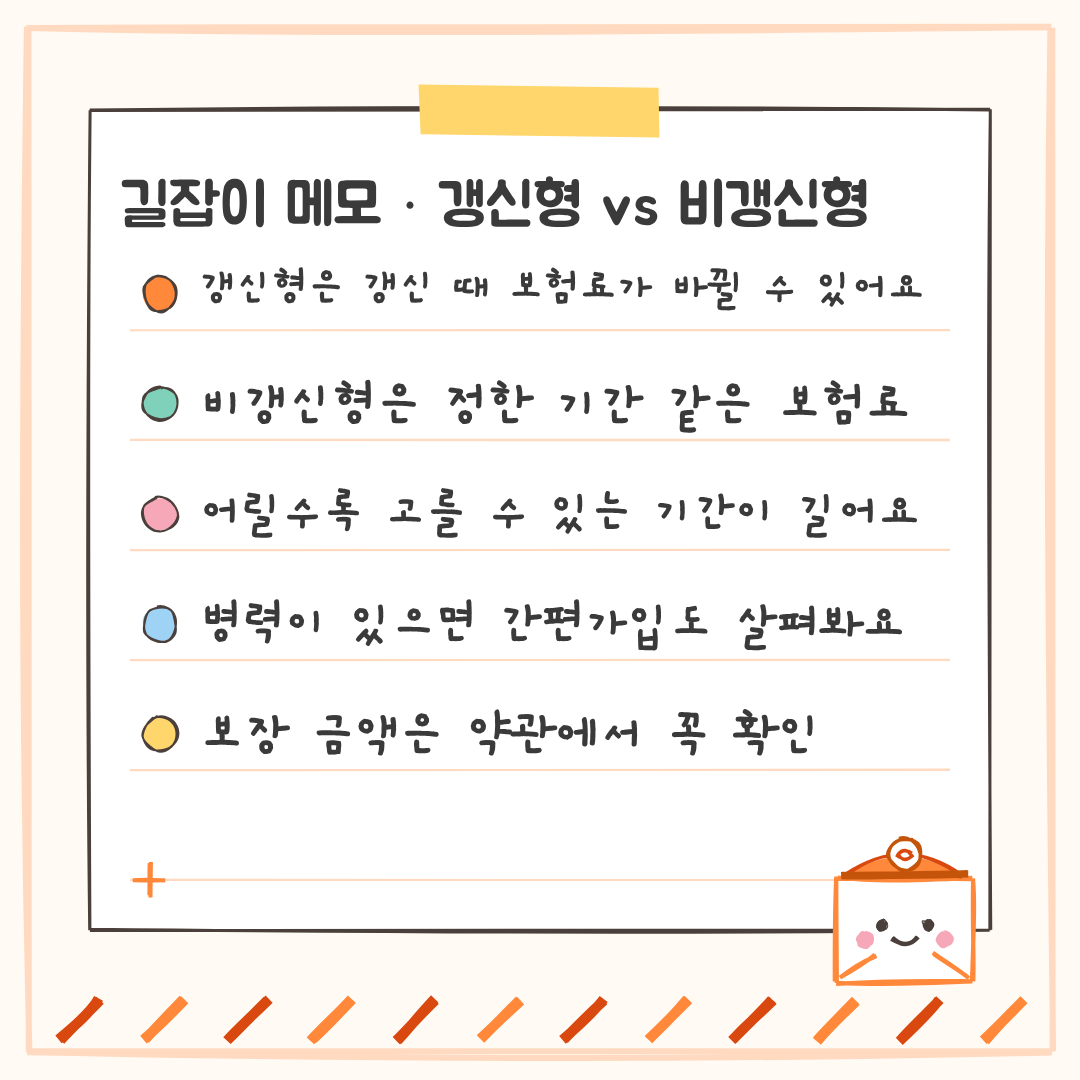
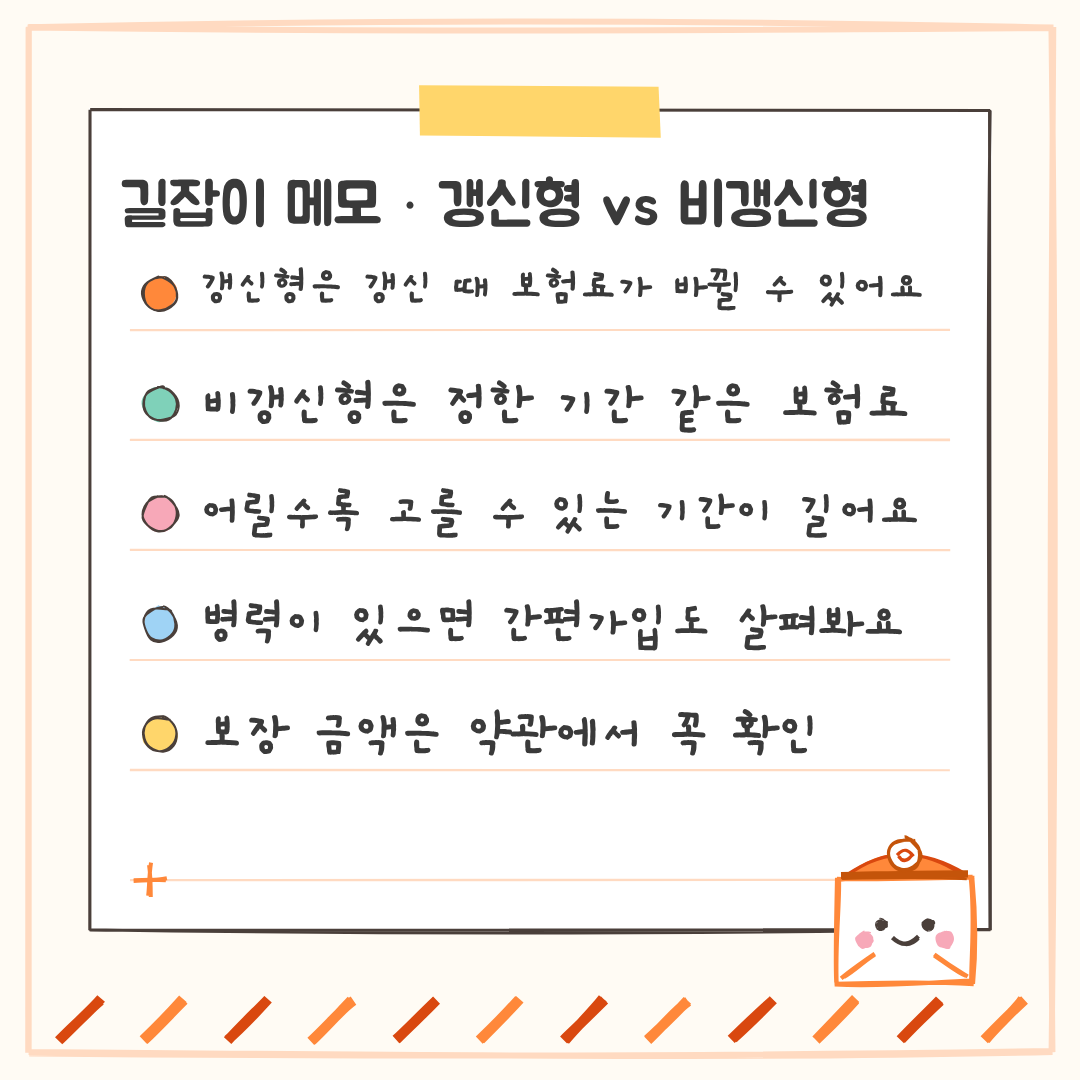
2편 대표 이미지: 리본 대신 갱신형(계단)·비갱신형(평평) 보험료 손그림 그래프
Claude-Session: https://claude.ai/code/session_01NDkHExbD7sg1GRU5d1kqZi

diff --git a/cafe/scripts/hand.html b/cafe/scripts/hand.html
@@ -61,6 +61,21 @@ const ICONS = {
     add(rc.path(`M${x + 95} ${y + 160} L${x + 45} ${y + 280} L${x + 90} ${y + 265} L${x + 115} ${y + 300}`, { stroke: "#E0607E", strokeWidth: 5, fill: P.pink, fillStyle: "solid" }));
     add(rc.path(`M${x + 135} ${y + 160} L${x + 185} ${y + 280} L${x + 140} ${y + 265} L${x + 115} ${y + 300}`, { stroke: "#E0607E", strokeWidth: 5, fill: P.pink, fillStyle: "solid" }));
   },
+  // 보험료 그래프: 계단처럼 오르는 선 = 갱신형, 평평한 선 = 비갱신형 (손글씨 이름표)
+  graph(x, y) {
+    y -= 50; // 아래 브랜드 글씨와 겹치지 않게 위로
+    add(rc.rectangle(x - 30, y - 10, 400, 320, { fill: "#fff", fillStyle: "solid", stroke: P.ink, strokeWidth: 3, roughness: 1.3 }));
+    add(rc.line(x + 20, y + 250, x + 340, y + 250, { stroke: P.ink, strokeWidth: 4 }));      // 가로축(나이)
+    add(rc.line(x + 20, y + 250, x + 20, y + 30, { stroke: P.ink, strokeWidth: 4 }));        // 세로축(보험료)
+    add(rc.path(`M${x + 330} ${y + 240} l14 10 l-14 10`, { stroke: P.ink, strokeWidth: 4 }));
+    add(rc.path(`M${x + 10} ${y + 42} l10 -14 l10 14`, { stroke: P.ink, strokeWidth: 4 }));
+    add(rc.path(`M${x + 30} ${y + 205} H${x + 120} V${y + 160} H${x + 210} V${y + 110} H${x + 300} V${y + 60} H${x + 330}`, { stroke: P.red, strokeWidth: 7, roughness: 1.1 }));
+    add(rc.line(x + 30, y + 150, x + 330, y + 150, { stroke: "#2FA37F", strokeWidth: 7, roughness: 1.1 }));
+    const lab = (s, lx, ly, color) => { const d = text("li", s, lx, ly); d.style.fontSize = "38px"; d.style.color = color; };
+    lab("갱신형", x + 238, y + 4, P.red);
+    lab("비갱신형", x + 150, y + 160, "#2FA37F");
+    lab("나이", x + 270, y + 258, P.ink);
+  },
   heart(x, y) {
     add(rc.path(`M${x + 115} ${y + 270} C${x - 40} ${y + 160} ${x + 20} ${y + 20} ${x + 115} ${y + 90} C${x + 210} ${y + 20} ${x + 270} ${y + 160} ${x + 115} ${y + 270} Z`, { fill: "#F59A9A", fillStyle: "hachure", hachureGap: 9, stroke: "#E05555", strokeWidth: 4 }));
     add(rc.path(`M${x + 20} ${y + 160} L${x + 75} ${y + 160} L${x + 95} ${y + 120} L${x + 125} ${y + 200} L${x + 145} ${y + 160} L${x + 215} ${y + 160}`, { stroke: "#fff", strokeWidth: 7, roughness: 0.6 }));

diff --git a/cafe/posts/15-cancer-care.md b/cafe/posts/15-cancer-care.md
@@ -11,7 +11,7 @@ asOf: 2026-11-06
 sources: [https://epostlife.go.kr/IPCCFQ0001.do]
 thumb: [암보험 갱신형·비갱신형, 나이별로 고르는 법]
 sub: 암·건강 노트 2편
-icon: ribbon
+icon: graph
 cardTitle: 길잡이 메모 · 갱신형 vs 비갱신형
 card: 갱신형은 갱신 때 보험료가 바뀔 수 있어요 | 비갱신형은 정한 기간 같은 보험료 | 어릴수록 고를 수 있는 기간이 길어요 | 병력이 있으면 간편가입도 살펴봐요 | 보장 금액은 약관에서 꼭 확인
 ---
